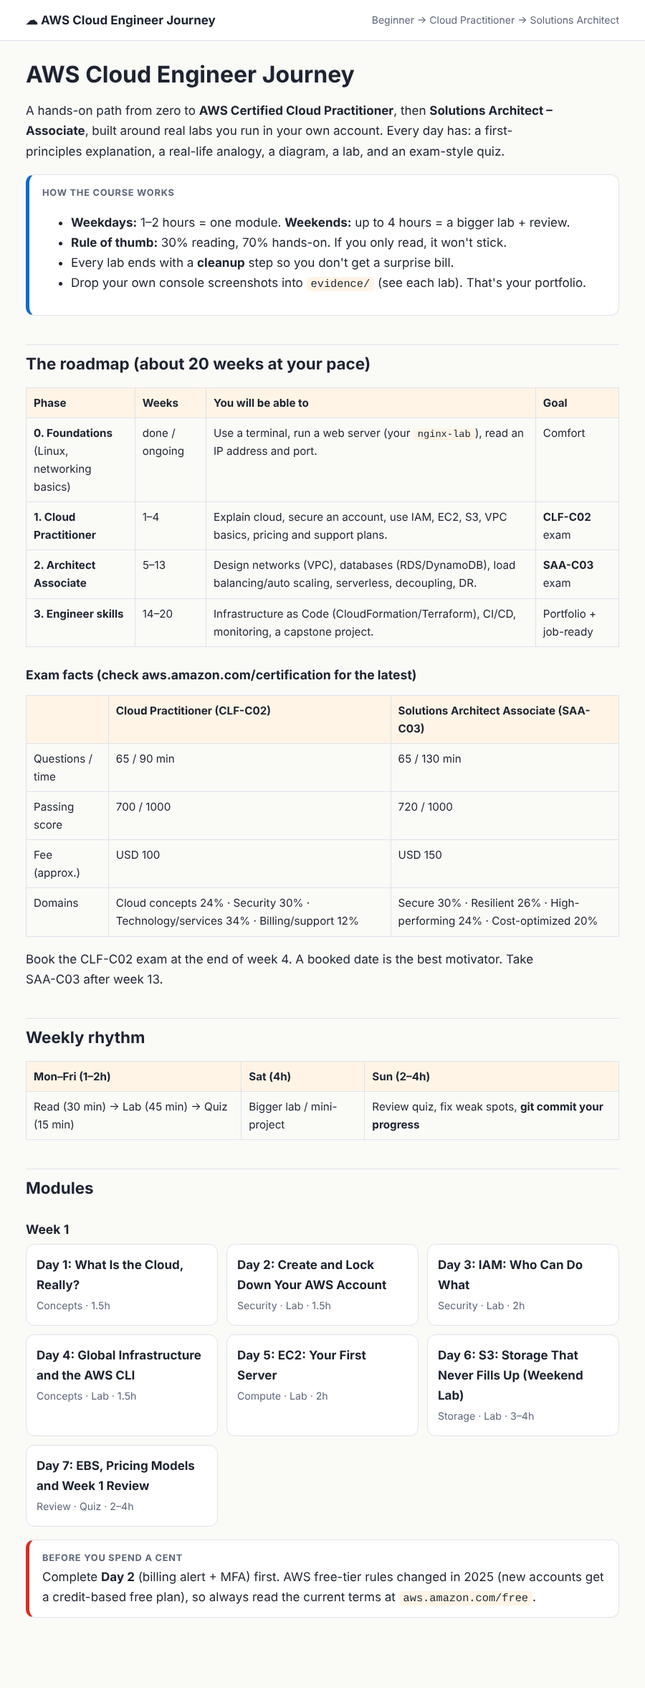
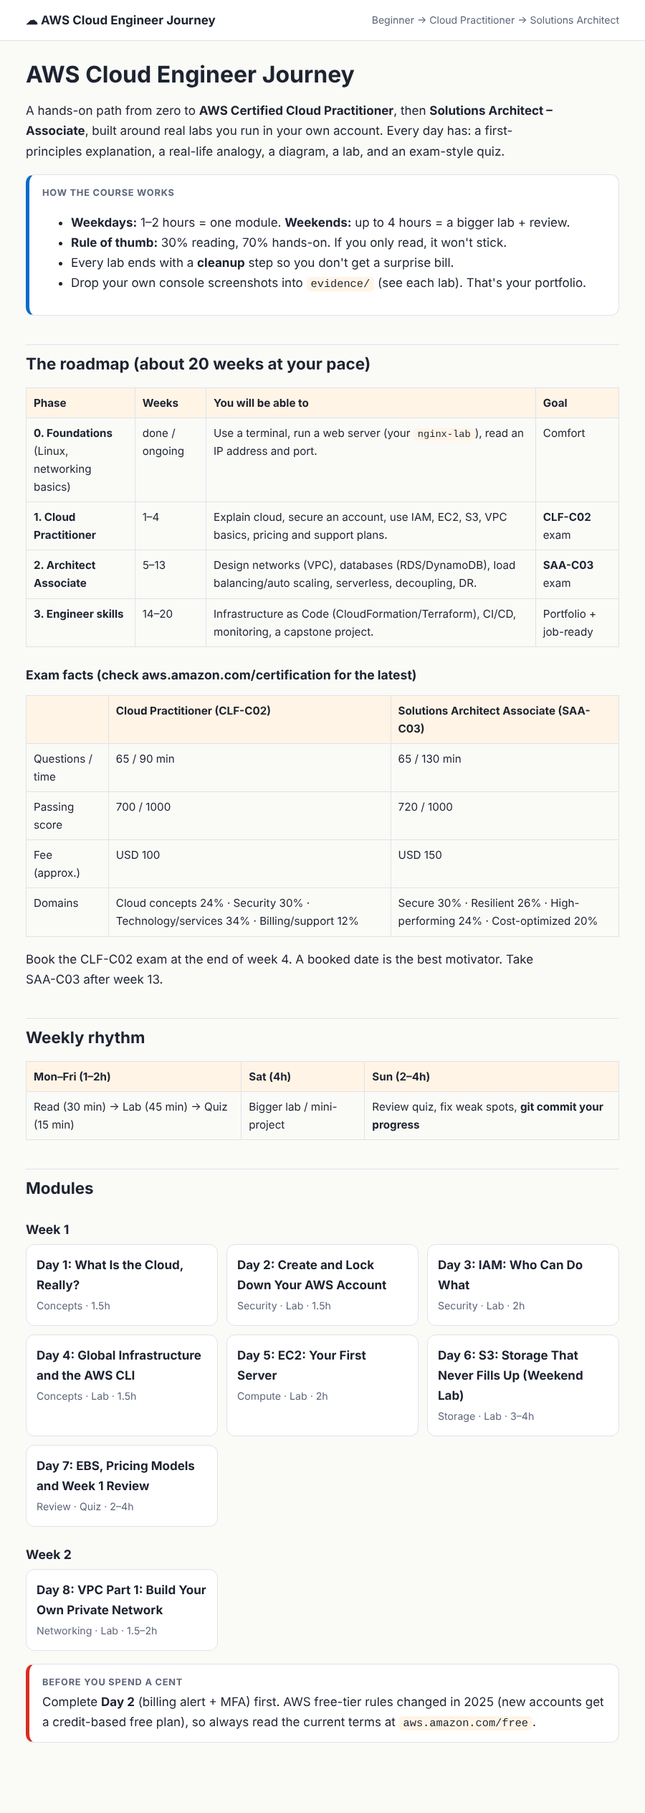
Add Day 8: VPC Part 1 module (CIDR, subnets, IGW, routing lab)
Claude-Session: https://claude.ai/code/session_0196qf4QCDd9g1V5dBnZq6ub

diff --git a/aws-course/modules/day08.html b/aws-course/modules/day08.html
@@ -1,0 +1,103 @@
+<!doctype html><html lang="en"><head><meta charset="utf-8"><meta name="viewport" content="width=device-width,initial-scale=1">
+<title>Day 8 - VPC Part 1: Build Your Own Private Network</title><link rel="stylesheet" href="../assets/style.css"></head><body data-k="aws-day8">
+<header class="top"><div class="wrap"><a href="../index.html">☁ AWS Cloud Engineer Journey</a><span style="color:var(--mut);font-size:14px">Beginner → Cloud Practitioner → Solutions Architect</span></div></header>
+<main class="wrap"><p style="margin:26px 0 0"><span class="badge">Day 8</span><span class="badge">Networking · Lab</span><span class="badge">⏱ 1.5–2h</span></p><h1>VPC Part 1: Build Your Own Private Network</h1><div class="bar"><i id="pb"></i></div>
+<div class="box why"><b class="t">By the end of today you can</b>
+Read a CIDR block like <code>10.0.0.0/16</code>, explain what a VPC, subnet, route table and internet gateway each do, and build a network from scratch where one server is reachable from the internet and another is not.</div>
+
+<h2>1. First principles: why does a VPC exist?</h2>
+<p>AWS runs millions of customers' servers in the same buildings. Without walls, your database could talk to a stranger's. A <b>VPC (Virtual Private Cloud)</b> is <b>your own logically isolated network</b> inside a Region. You choose its IP address range, you carve it into pieces, and you decide what can enter or leave. Nothing gets in or out unless <i>you</i> create a path.</p>
+<div class="box analogy"><b class="t">Analogy: a gated estate</b>The <b>VPC</b> is the whole estate behind a fence. <b>Subnets</b> are streets inside it (each street is in one neighborhood = one AZ). The <b>internet gateway</b> is the main gate to the public road. A <b>route table</b> is the signpost at each street saying "to reach anywhere outside, go through the main gate". A street with no such signpost is private, however nice its houses are.</div>
+
+<h2>2. IP addresses and CIDR in 5 minutes</h2>
+<p>An IPv4 address is 32 bits, written as four numbers (<code>10.0.1.25</code>). <b>CIDR notation</b> adds a slash: <code>10.0.0.0/16</code> means "the first 16 bits are fixed (the network), the remaining 16 bits are free for hosts".</p>
+<p><b>Formula:</b> number of addresses = 2<sup>(32 − prefix)</sup>.</p>
+<table><tr><th>CIDR</th><th>Addresses</th><th>Typical use</th></tr>
+<tr><td><code>/16</code></td><td>65,536</td><td>The whole VPC (largest allowed)</td></tr>
+<tr><td><code>/24</code></td><td>256</td><td>One subnet</td></tr>
+<tr><td><code>/28</code></td><td>16</td><td>Smallest subnet AWS allows</td></tr>
+<tr><td><code>/32</code></td><td>1</td><td>A single address (e.g. "only my IP")</td></tr></table>
+<div class="box exam"><b class="t">Exam favourite</b>AWS reserves <b>5 addresses in every subnet</b> (network, router, DNS, future use, broadcast). So a /24 gives <b>251</b> usable, not 256. Private ranges you should know: <code>10.0.0.0/8</code>, <code>172.16.0.0/12</code>, <code>192.168.0.0/16</code>. Your VPC range must not overlap with networks you will later connect to.</div>
+
+<h2>3. The five building blocks</h2>
+<table><tr><th>Piece</th><th>What it is</th><th>Key rule</th></tr>
+<tr><td><b>VPC</b></td><td>Your private network, one CIDR block</td><td>Lives in one Region, spans all its AZs</td></tr>
+<tr><td><b>Subnet</b></td><td>A slice of the VPC's range</td><td>Lives in exactly <b>one AZ</b></td></tr>
+<tr><td><b>Route table</b></td><td>List of "destination → target" rules</td><td>Every subnet uses exactly one</td></tr>
+<tr><td><b>Internet Gateway (IGW)</b></td><td>The door to the internet</td><td>One per VPC, free, scales automatically</td></tr>
+<tr><td><b>Public IP</b></td><td>Address the internet can reach</td><td>Needed <i>in addition to</i> the IGW route</td></tr></table>
+
+<h3>The definition that trips everyone up</h3>
+<p>There is no "public" checkbox on a subnet. A subnet is <b>public</b> only because its route table has a route <code>0.0.0.0/0 → igw-xxxx</code>. Remove that route and it is private. For an instance to actually be reachable from the internet it needs all three: <b>(1)</b> a route to the IGW, <b>(2)</b> a public IP, <b>(3)</b> a security group that allows the traffic.</p>
+<figure>
+<svg viewBox="0 0 700 330" role="img" aria-label="VPC with a public and a private subnet and an internet gateway">
+<rect class="c" x="20" y="20" width="520" height="290" rx="12"/><text x="36" y="46" font-weight="700">VPC 10.0.0.0/16 (Region eu-west-1)</text>
+<rect class="a" x="44" y="66" width="230" height="220" rx="8"/><text x="58" y="90" font-size="14" font-weight="700">Public subnet 10.0.1.0/24</text><text x="58" y="108" font-size="12" class="m">AZ a</text>
+<rect class="b" x="64" y="124" width="190" height="56" rx="6"/><text x="78" y="148" font-size="13">EC2 web server</text><text x="78" y="166" font-size="12" class="m">private 10.0.1.x + public IP</text>
+<text x="58" y="206" font-size="12" class="m">Route table (public-rt):</text><text x="58" y="224" font-size="12">10.0.0.0/16 → local</text><text x="58" y="242" font-size="12" font-weight="700">0.0.0.0/0 → igw</text>
+<rect class="b" x="296" y="66" width="230" height="220" rx="8"/><text x="310" y="90" font-size="14" font-weight="700">Private subnet 10.0.2.0/24</text><text x="310" y="108" font-size="12" class="m">AZ b</text>
+<rect class="b" x="316" y="124" width="190" height="56" rx="6"/><text x="330" y="148" font-size="13">EC2 (e.g. database)</text><text x="330" y="166" font-size="12" class="m">private IP only</text>
+<text x="310" y="206" font-size="12" class="m">Route table (main):</text><text x="310" y="224" font-size="12">10.0.0.0/16 → local</text><text x="310" y="242" font-size="12" class="m">(no route to the internet)</text>
+<rect class="a" x="580" y="130" width="100" height="56" rx="8"/><text x="596" y="154" font-size="13" font-weight="700">Internet</text><text x="596" y="172" font-size="12">Gateway</text>
+<path class="l" d="M154 66 V50 H560 V130 H580" />
+<text x="590" y="214" font-size="12" class="m">to the internet</text>
+</svg><figcaption>Both subnets can talk to each other through the "local" route. Only the public one has a path out through the gateway.</figcaption></figure>
+
+<h2>4. Lab: build it by hand (about 60 minutes)</h2>
+<div class="box warn"><b class="t">Cost safety</b>VPCs, subnets, route tables and internet gateways are <b>free</b>. Today you will <b>not</b> create a NAT Gateway (it bills hourly; that is Day 9). An EC2 <code>t3.micro</code>/<code>t2.micro</code> is small, but note AWS now charges a few cents per hour for any <b>public IPv4 address</b>. Terminate the instances at the end.</div>
+<ol class="steps">
+<li><b>Create the VPC.</b> Console → VPC → Your VPCs → <b>Create VPC</b> → "VPC only". Name <code>lab-vpc</code>, IPv4 CIDR <code>10.0.0.0/16</code>. Create.</li>
+<li><b>Create two subnets</b> (VPC → Subnets → Create subnet), both in <code>lab-vpc</code>:
+<table><tr><th>Name</th><th>AZ</th><th>CIDR</th></tr><tr><td>lab-public-a</td><td>first AZ (e.g. eu-west-1a)</td><td>10.0.1.0/24</td></tr><tr><td>lab-private-b</td><td>second AZ (e.g. eu-west-1b)</td><td>10.0.2.0/24</td></tr></table>
+Select <code>lab-public-a</code> → Actions → Edit subnet settings → tick <b>Enable auto-assign public IPv4 address</b>.</li>
+<li><b>Create and attach an internet gateway.</b> VPC → Internet gateways → Create (<code>lab-igw</code>) → Actions → <b>Attach to VPC</b> → <code>lab-vpc</code>.</li>
+<li><b>Make the public route table.</b> Route tables → Create (<code>public-rt</code>, VPC <code>lab-vpc</code>). Open it → Routes → Edit routes → add destination <code>0.0.0.0/0</code>, target <b>Internet Gateway</b> → <code>lab-igw</code>. Then Subnet associations → Edit → tick <code>lab-public-a</code> only.</li>
+<li><b>Security group.</b> EC2 → Security Groups → Create <code>lab-web-sg</code> in <code>lab-vpc</code>. Inbound rules: HTTP (80) from <code>0.0.0.0/0</code>; SSH (22) from <b>My IP</b> only.</li>
+<li><b>Launch the web server.</b> EC2 → Launch instance: Amazon Linux 2023, <code>t3.micro</code> (or the free-tier type offered), network <code>lab-vpc</code>, subnet <code>lab-public-a</code>, security group <code>lab-web-sg</code>. Under Advanced details → User data paste:
+<pre><code>#!/bin/bash
+dnf install -y nginx
+echo "Hello from my own VPC" &gt; /usr/share/nginx/html/index.html
+systemctl enable --now nginx</code></pre>
+After about a minute, open <code>http://&lt;its-public-IP&gt;</code> in your browser. You should see your message.</li>
+<li><b>Prove the private subnet is private.</b> Launch a second instance in <code>lab-private-b</code> (auto-assign public IP will be "Disable"). Note it has only a private IP. It has no route to the internet and no public IP, so nothing from outside can reach it.</li>
+<li><b>Break it on purpose (the best way to learn).</b> Edit <code>public-rt</code> and delete the <code>0.0.0.0/0</code> route. Refresh the browser: it hangs. Add the route back: it works again. You just felt exactly what makes a subnet public.</li>
+<li><b>Cleanup (in this order):</b> terminate both instances → delete <code>lab-web-sg</code> → Internet gateways: <b>Detach</b> then delete <code>lab-igw</code> → delete the subnets → delete <code>public-rt</code> → delete <code>lab-vpc</code>. VPC → Your VPCs should show only the default VPC.</li>
+</ol>
+<div class="shot">📸 Evidence: save these in <code>evidence/</code> (blur account IDs): <code>day08-vpc-resource-map.png</code> (VPC → your VPC → "Resource map" tab) and <code>day08-hello-from-vpc.png</code> (the browser page).</div>
+<details><summary>Stuck? Troubleshooting checklist</summary>
+<ul><li>Page times out → check the route <code>0.0.0.0/0 → igw</code> is in the route table <i>associated with that subnet</i>, the instance has a public IP, and the security group allows port 80.</li>
+<li>Page says "connection refused" → networking is fine; nginx is not running yet. Wait a minute or check the user data.</li>
+<li>Cannot delete the VPC → something still depends on it (instance, gateway, subnet). Read the error; it names the blocker.</li></ul></details>
+
+<h2>5. The default VPC</h2>
+<p>Every Region already contains a <b>default VPC</b> (<code>172.31.0.0/16</code>) with public subnets and an internet gateway pre-wired. That is why your Day 5 instance was reachable without any of today's steps. The default VPC is convenient for learning; real workloads use custom VPCs like the one you just built.</p>
+
+<h2>6. Exam-style quiz</h2>
+<details><summary>1. How many usable IPs are in a /24 subnet in AWS?</summary>251 (256 minus the 5 AWS reserves).</details>
+<details><summary>2. What makes a subnet "public"?</summary>A route to an internet gateway (<code>0.0.0.0/0 → igw</code>) in its route table.</details>
+<details><summary>3. Can one subnet span two Availability Zones?</summary>No. A subnet lives in exactly one AZ; a VPC spans all AZs of its Region.</details>
+<details><summary>4. An instance is in a public subnet but cannot be reached. Name three things to check.</summary>Public IP assigned, route to the IGW, security group (and network ACL) allows the traffic.</details>
+<details><summary>5. How many internet gateways can attach to one VPC?</summary>One.</details>
+<details><summary>6. Which CIDR holds more addresses: /16 or /20?</summary>/16 (65,536 vs 4,096). A smaller prefix number means a bigger network.</details>
+<details><summary>7. What is the "local" route in every route table?</summary>It lets all resources inside the VPC reach each other. It cannot be deleted.</details>
+<details><summary>8. Practice: how many addresses are in 10.0.0.0/20?</summary>2<sup>12</sup> = 4,096.</details>
+
+<h2>7. Tomorrow</h2>
+<p><b>Day 9:</b> how a private server gets <i>out</i> (NAT Gateway), and the two firewalls: security groups (stateful, on the instance) versus network ACLs (stateless, on the subnet).</p>
+
+<h2>8. Checklist</h2>
+<ul class="check">
+<li><label><input type="checkbox" data-id="a"> Can compute addresses from a CIDR prefix</label></li>
+<li><label><input type="checkbox" data-id="b"> Reached my web server in my own public subnet</label></li>
+<li><label><input type="checkbox" data-id="c"> Deleted the route and saw it break, then fixed it</label></li>
+<li><label><input type="checkbox" data-id="d"> Cleaned up everything; only the default VPC remains</label></li>
+<li><label><input type="checkbox" data-id="e"> Screenshots saved in evidence/ and committed</label></li>
+</ul>
+<nav class="pn"><a href="day07.html">← Day 7: EBS, Pricing Models and Week 1 Review</a><a href="../index.html">Course home →</a></nav></main><script>
+(function(){var k=document.body.dataset.k;function g(){try{return JSON.parse(localStorage.getItem(k)||'{}')}catch(e){return{}}}
+function s(o){try{localStorage.setItem(k,JSON.stringify(o))}catch(e){}}
+var st=g();document.querySelectorAll('input[type=checkbox][data-id]').forEach(function(c){c.checked=!!st[c.dataset.id];
+c.addEventListener('change',function(){var o=g();o[c.dataset.id]=c.checked;s(o);bar()})});
+function bar(){var a=document.querySelectorAll('input[data-id]'),n=0;a.forEach(function(c){if(c.checked)n++});
+var b=document.getElementById('pb');if(b&&a.length)b.style.width=(100*n/a.length)+'%'}bar()})();
+</script></body></html>

diff --git a/aws-course/_src/day08.html b/aws-course/_src/day08.html
@@ -1,0 +1,92 @@
+<!--meta {"n":8,"title":"VPC Part 1: Build Your Own Private Network","time":"1.5–2h","week":2,"tag":"Networking · Lab"} -->
+<div class="box why"><b class="t">By the end of today you can</b>
+Read a CIDR block like <code>10.0.0.0/16</code>, explain what a VPC, subnet, route table and internet gateway each do, and build a network from scratch where one server is reachable from the internet and another is not.</div>
+
+<h2>1. First principles: why does a VPC exist?</h2>
+<p>AWS runs millions of customers' servers in the same buildings. Without walls, your database could talk to a stranger's. A <b>VPC (Virtual Private Cloud)</b> is <b>your own logically isolated network</b> inside a Region. You choose its IP address range, you carve it into pieces, and you decide what can enter or leave. Nothing gets in or out unless <i>you</i> create a path.</p>
+<div class="box analogy"><b class="t">Analogy: a gated estate</b>The <b>VPC</b> is the whole estate behind a fence. <b>Subnets</b> are streets inside it (each street is in one neighborhood = one AZ). The <b>internet gateway</b> is the main gate to the public road. A <b>route table</b> is the signpost at each street saying "to reach anywhere outside, go through the main gate". A street with no such signpost is private, however nice its houses are.</div>
+
+<h2>2. IP addresses and CIDR in 5 minutes</h2>
+<p>An IPv4 address is 32 bits, written as four numbers (<code>10.0.1.25</code>). <b>CIDR notation</b> adds a slash: <code>10.0.0.0/16</code> means "the first 16 bits are fixed (the network), the remaining 16 bits are free for hosts".</p>
+<p><b>Formula:</b> number of addresses = 2<sup>(32 − prefix)</sup>.</p>
+<table><tr><th>CIDR</th><th>Addresses</th><th>Typical use</th></tr>
+<tr><td><code>/16</code></td><td>65,536</td><td>The whole VPC (largest allowed)</td></tr>
+<tr><td><code>/24</code></td><td>256</td><td>One subnet</td></tr>
+<tr><td><code>/28</code></td><td>16</td><td>Smallest subnet AWS allows</td></tr>
+<tr><td><code>/32</code></td><td>1</td><td>A single address (e.g. "only my IP")</td></tr></table>
+<div class="box exam"><b class="t">Exam favourite</b>AWS reserves <b>5 addresses in every subnet</b> (network, router, DNS, future use, broadcast). So a /24 gives <b>251</b> usable, not 256. Private ranges you should know: <code>10.0.0.0/8</code>, <code>172.16.0.0/12</code>, <code>192.168.0.0/16</code>. Your VPC range must not overlap with networks you will later connect to.</div>
+
+<h2>3. The five building blocks</h2>
+<table><tr><th>Piece</th><th>What it is</th><th>Key rule</th></tr>
+<tr><td><b>VPC</b></td><td>Your private network, one CIDR block</td><td>Lives in one Region, spans all its AZs</td></tr>
+<tr><td><b>Subnet</b></td><td>A slice of the VPC's range</td><td>Lives in exactly <b>one AZ</b></td></tr>
+<tr><td><b>Route table</b></td><td>List of "destination → target" rules</td><td>Every subnet uses exactly one</td></tr>
+<tr><td><b>Internet Gateway (IGW)</b></td><td>The door to the internet</td><td>One per VPC, free, scales automatically</td></tr>
+<tr><td><b>Public IP</b></td><td>Address the internet can reach</td><td>Needed <i>in addition to</i> the IGW route</td></tr></table>
+
+<h3>The definition that trips everyone up</h3>
+<p>There is no "public" checkbox on a subnet. A subnet is <b>public</b> only because its route table has a route <code>0.0.0.0/0 → igw-xxxx</code>. Remove that route and it is private. For an instance to actually be reachable from the internet it needs all three: <b>(1)</b> a route to the IGW, <b>(2)</b> a public IP, <b>(3)</b> a security group that allows the traffic.</p>
+<figure>
+<svg viewBox="0 0 700 330" role="img" aria-label="VPC with a public and a private subnet and an internet gateway">
+<rect class="c" x="20" y="20" width="520" height="290" rx="12"/><text x="36" y="46" font-weight="700">VPC 10.0.0.0/16 (Region eu-west-1)</text>
+<rect class="a" x="44" y="66" width="230" height="220" rx="8"/><text x="58" y="90" font-size="14" font-weight="700">Public subnet 10.0.1.0/24</text><text x="58" y="108" font-size="12" class="m">AZ a</text>
+<rect class="b" x="64" y="124" width="190" height="56" rx="6"/><text x="78" y="148" font-size="13">EC2 web server</text><text x="78" y="166" font-size="12" class="m">private 10.0.1.x + public IP</text>
+<text x="58" y="206" font-size="12" class="m">Route table (public-rt):</text><text x="58" y="224" font-size="12">10.0.0.0/16 → local</text><text x="58" y="242" font-size="12" font-weight="700">0.0.0.0/0 → igw</text>
+<rect class="b" x="296" y="66" width="230" height="220" rx="8"/><text x="310" y="90" font-size="14" font-weight="700">Private subnet 10.0.2.0/24</text><text x="310" y="108" font-size="12" class="m">AZ b</text>
+<rect class="b" x="316" y="124" width="190" height="56" rx="6"/><text x="330" y="148" font-size="13">EC2 (e.g. database)</text><text x="330" y="166" font-size="12" class="m">private IP only</text>
+<text x="310" y="206" font-size="12" class="m">Route table (main):</text><text x="310" y="224" font-size="12">10.0.0.0/16 → local</text><text x="310" y="242" font-size="12" class="m">(no route to the internet)</text>
+<rect class="a" x="580" y="130" width="100" height="56" rx="8"/><text x="596" y="154" font-size="13" font-weight="700">Internet</text><text x="596" y="172" font-size="12">Gateway</text>
+<path class="l" d="M154 66 V50 H560 V130 H580" />
+<text x="590" y="214" font-size="12" class="m">to the internet</text>
+</svg><figcaption>Both subnets can talk to each other through the "local" route. Only the public one has a path out through the gateway.</figcaption></figure>
+
+<h2>4. Lab: build it by hand (about 60 minutes)</h2>
+<div class="box warn"><b class="t">Cost safety</b>VPCs, subnets, route tables and internet gateways are <b>free</b>. Today you will <b>not</b> create a NAT Gateway (it bills hourly; that is Day 9). An EC2 <code>t3.micro</code>/<code>t2.micro</code> is small, but note AWS now charges a few cents per hour for any <b>public IPv4 address</b>. Terminate the instances at the end.</div>
+<ol class="steps">
+<li><b>Create the VPC.</b> Console → VPC → Your VPCs → <b>Create VPC</b> → "VPC only". Name <code>lab-vpc</code>, IPv4 CIDR <code>10.0.0.0/16</code>. Create.</li>
+<li><b>Create two subnets</b> (VPC → Subnets → Create subnet), both in <code>lab-vpc</code>:
+<table><tr><th>Name</th><th>AZ</th><th>CIDR</th></tr><tr><td>lab-public-a</td><td>first AZ (e.g. eu-west-1a)</td><td>10.0.1.0/24</td></tr><tr><td>lab-private-b</td><td>second AZ (e.g. eu-west-1b)</td><td>10.0.2.0/24</td></tr></table>
+Select <code>lab-public-a</code> → Actions → Edit subnet settings → tick <b>Enable auto-assign public IPv4 address</b>.</li>
+<li><b>Create and attach an internet gateway.</b> VPC → Internet gateways → Create (<code>lab-igw</code>) → Actions → <b>Attach to VPC</b> → <code>lab-vpc</code>.</li>
+<li><b>Make the public route table.</b> Route tables → Create (<code>public-rt</code>, VPC <code>lab-vpc</code>). Open it → Routes → Edit routes → add destination <code>0.0.0.0/0</code>, target <b>Internet Gateway</b> → <code>lab-igw</code>. Then Subnet associations → Edit → tick <code>lab-public-a</code> only.</li>
+<li><b>Security group.</b> EC2 → Security Groups → Create <code>lab-web-sg</code> in <code>lab-vpc</code>. Inbound rules: HTTP (80) from <code>0.0.0.0/0</code>; SSH (22) from <b>My IP</b> only.</li>
+<li><b>Launch the web server.</b> EC2 → Launch instance: Amazon Linux 2023, <code>t3.micro</code> (or the free-tier type offered), network <code>lab-vpc</code>, subnet <code>lab-public-a</code>, security group <code>lab-web-sg</code>. Under Advanced details → User data paste:
+<pre><code>#!/bin/bash
+dnf install -y nginx
+echo "Hello from my own VPC" &gt; /usr/share/nginx/html/index.html
+systemctl enable --now nginx</code></pre>
+After about a minute, open <code>http://&lt;its-public-IP&gt;</code> in your browser. You should see your message.</li>
+<li><b>Prove the private subnet is private.</b> Launch a second instance in <code>lab-private-b</code> (auto-assign public IP will be "Disable"). Note it has only a private IP. It has no route to the internet and no public IP, so nothing from outside can reach it.</li>
+<li><b>Break it on purpose (the best way to learn).</b> Edit <code>public-rt</code> and delete the <code>0.0.0.0/0</code> route. Refresh the browser: it hangs. Add the route back: it works again. You just felt exactly what makes a subnet public.</li>
+<li><b>Cleanup (in this order):</b> terminate both instances → delete <code>lab-web-sg</code> → Internet gateways: <b>Detach</b> then delete <code>lab-igw</code> → delete the subnets → delete <code>public-rt</code> → delete <code>lab-vpc</code>. VPC → Your VPCs should show only the default VPC.</li>
+</ol>
+<div class="shot">📸 Evidence: save these in <code>evidence/</code> (blur account IDs): <code>day08-vpc-resource-map.png</code> (VPC → your VPC → "Resource map" tab) and <code>day08-hello-from-vpc.png</code> (the browser page).</div>
+<details><summary>Stuck? Troubleshooting checklist</summary>
+<ul><li>Page times out → check the route <code>0.0.0.0/0 → igw</code> is in the route table <i>associated with that subnet</i>, the instance has a public IP, and the security group allows port 80.</li>
+<li>Page says "connection refused" → networking is fine; nginx is not running yet. Wait a minute or check the user data.</li>
+<li>Cannot delete the VPC → something still depends on it (instance, gateway, subnet). Read the error; it names the blocker.</li></ul></details>
+
+<h2>5. The default VPC</h2>
+<p>Every Region already contains a <b>default VPC</b> (<code>172.31.0.0/16</code>) with public subnets and an internet gateway pre-wired. That is why your Day 5 instance was reachable without any of today's steps. The default VPC is convenient for learning; real workloads use custom VPCs like the one you just built.</p>
+
+<h2>6. Exam-style quiz</h2>
+<details><summary>1. How many usable IPs are in a /24 subnet in AWS?</summary>251 (256 minus the 5 AWS reserves).</details>
+<details><summary>2. What makes a subnet "public"?</summary>A route to an internet gateway (<code>0.0.0.0/0 → igw</code>) in its route table.</details>
+<details><summary>3. Can one subnet span two Availability Zones?</summary>No. A subnet lives in exactly one AZ; a VPC spans all AZs of its Region.</details>
+<details><summary>4. An instance is in a public subnet but cannot be reached. Name three things to check.</summary>Public IP assigned, route to the IGW, security group (and network ACL) allows the traffic.</details>
+<details><summary>5. How many internet gateways can attach to one VPC?</summary>One.</details>
+<details><summary>6. Which CIDR holds more addresses: /16 or /20?</summary>/16 (65,536 vs 4,096). A smaller prefix number means a bigger network.</details>
+<details><summary>7. What is the "local" route in every route table?</summary>It lets all resources inside the VPC reach each other. It cannot be deleted.</details>
+<details><summary>8. Practice: how many addresses are in 10.0.0.0/20?</summary>2<sup>12</sup> = 4,096.</details>
+
+<h2>7. Tomorrow</h2>
+<p><b>Day 9:</b> how a private server gets <i>out</i> (NAT Gateway), and the two firewalls: security groups (stateful, on the instance) versus network ACLs (stateless, on the subnet).</p>
+
+<h2>8. Checklist</h2>
+<ul class="check">
+<li><label><input type="checkbox" data-id="a"> Can compute addresses from a CIDR prefix</label></li>
+<li><label><input type="checkbox" data-id="b"> Reached my web server in my own public subnet</label></li>
+<li><label><input type="checkbox" data-id="c"> Deleted the route and saw it break, then fixed it</label></li>
+<li><label><input type="checkbox" data-id="d"> Cleaned up everything; only the default VPC remains</label></li>
+<li><label><input type="checkbox" data-id="e"> Screenshots saved in evidence/ and committed</label></li>
+</ul>

diff --git a/aws-course/index.html b/aws-course/index.html
@@ -38,7 +38,7 @@
 </table>
 
 <h2>Modules</h2>
-<h3>Week 1</h3><div class='grid'><a class='card' href='modules/day01.html'><b>Day 1: What Is the Cloud, Really?</b><br><small>Concepts · 1.5h</small></a><a class='card' href='modules/day02.html'><b>Day 2: Create and Lock Down Your AWS Account</b><br><small>Security · Lab · 1.5h</small></a><a class='card' href='modules/day03.html'><b>Day 3: IAM: Who Can Do What</b><br><small>Security · Lab · 2h</small></a><a class='card' href='modules/day04.html'><b>Day 4: Global Infrastructure and the AWS CLI</b><br><small>Concepts · Lab · 1.5h</small></a><a class='card' href='modules/day05.html'><b>Day 5: EC2: Your First Server</b><br><small>Compute · Lab · 2h</small></a><a class='card' href='modules/day06.html'><b>Day 6: S3: Storage That Never Fills Up (Weekend Lab)</b><br><small>Storage · Lab · 3–4h</small></a><a class='card' href='modules/day07.html'><b>Day 7: EBS, Pricing Models and Week 1 Review</b><br><small>Review · Quiz · 2–4h</small></a></div>
+<h3>Week 1</h3><div class='grid'><a class='card' href='modules/day01.html'><b>Day 1: What Is the Cloud, Really?</b><br><small>Concepts · 1.5h</small></a><a class='card' href='modules/day02.html'><b>Day 2: Create and Lock Down Your AWS Account</b><br><small>Security · Lab · 1.5h</small></a><a class='card' href='modules/day03.html'><b>Day 3: IAM: Who Can Do What</b><br><small>Security · Lab · 2h</small></a><a class='card' href='modules/day04.html'><b>Day 4: Global Infrastructure and the AWS CLI</b><br><small>Concepts · Lab · 1.5h</small></a><a class='card' href='modules/day05.html'><b>Day 5: EC2: Your First Server</b><br><small>Compute · Lab · 2h</small></a><a class='card' href='modules/day06.html'><b>Day 6: S3: Storage That Never Fills Up (Weekend Lab)</b><br><small>Storage · Lab · 3–4h</small></a><a class='card' href='modules/day07.html'><b>Day 7: EBS, Pricing Models and Week 1 Review</b><br><small>Review · Quiz · 2–4h</small></a></div><h3>Week 2</h3><div class='grid'><a class='card' href='modules/day08.html'><b>Day 8: VPC Part 1: Build Your Own Private Network</b><br><small>Networking · Lab · 1.5–2h</small></a></div>
 
 <div class="box warn"><b class="t">Before you spend a cent</b>
 Complete <b>Day 2</b> (billing alert + MFA) first. AWS free-tier rules changed in 2025 (new accounts get a credit-based free plan), so always read the current terms at <code>aws.amazon.com/free</code>.</div>

diff --git a/aws-course/modules/day07.html b/aws-course/modules/day07.html
@@ -80,7 +80,7 @@ git push -u origin week-1-notes</code></pre>
 <li><label><input type="checkbox" data-id="c"> Everything terminated, billing page shows no running resources</label></li>
 <li><label><input type="checkbox" data-id="d"> Pushed my notes to GitHub</label></li>
 </ul>
-<nav class="pn"><a href="day06.html">← Day 6: S3: Storage That Never Fills Up (Weekend Lab)</a><a href="../index.html">Course home →</a></nav></main><script>
+<nav class="pn"><a href="day06.html">← Day 6: S3: Storage That Never Fills Up (Weekend Lab)</a><a href="day08.html">Day 8: VPC Part 1: Build Your Own Private Network →</a></nav></main><script>
 (function(){var k=document.body.dataset.k;function g(){try{return JSON.parse(localStorage.getItem(k)||'{}')}catch(e){return{}}}
 function s(o){try{localStorage.setItem(k,JSON.stringify(o))}catch(e){}}
 var st=g();document.querySelectorAll('input[type=checkbox][data-id]').forEach(function(c){c.checked=!!st[c.dataset.id];

diff --git a/README.md b/README.md
@@ -19,7 +19,8 @@ Repo → Settings → Pages → Source: *Deploy from a branch* → Branch: `main
 | 5 | EC2: your first server | ⬜ |
 | 6 | S3 (weekend lab) | ⬜ |
 | 7 | EBS, pricing models, Week 1 review | ⬜ |
-| 8+ | Week 2: VPC, Route 53, CloudFront, security services | 🔜 next |
+| 8 | VPC Part 1: build your own private network | ⬜ |
+| 9+ | Week 2 continues: NAT, security groups/NACLs, Route 53, CloudFront, security services | 🔜 next |
 
 Mark ✅ as you finish each day, and put your own console screenshots in [`aws-course/evidence/`](aws-course/evidence).
 
